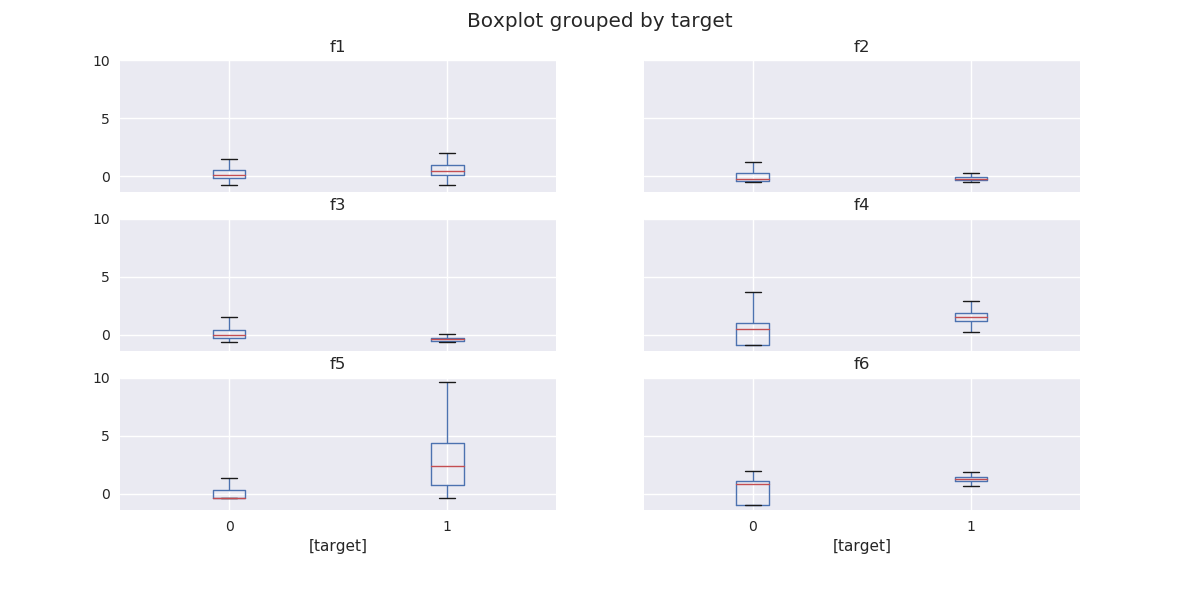
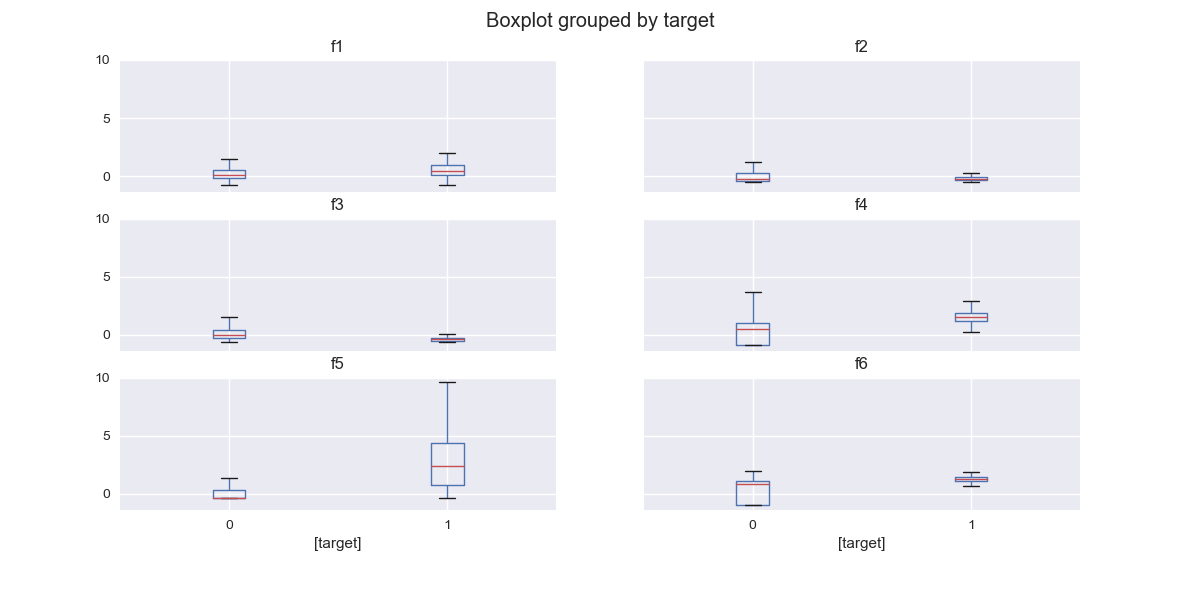
Changed plot palette

diff --git a/Util.py b/Util.py
@@ -5,8 +5,8 @@ import warnings # current version of seaborn generates a bunch of warnings that 
 warnings.filterwarnings("ignore")
 import seaborn as sns
 import matplotlib.pyplot as plt
-sns.set(color_codes=True)
-
+import matplotlib.style
+import matplotlib as mpl
 
 
 def extract_final_losses(history):
@@ -38,7 +38,9 @@ def plot_training_error_curves(history, arch_idx = None):
 	train_loss = history.history['loss']
 	val_loss = history.history['val_loss']
 
+	mpl.style.use('default')
 	fig, ax = plt.subplots()
+	ax.grid(False)
 	ax.plot(train_loss, label = 'Train')
 	ax.plot(val_loss, label = 'Validation')
 	ax.set(title = 'Training and Validation Error Curves', xlabel = 'Epochs', ylabel = 'Loss (MSE)')
@@ -65,7 +67,9 @@ def plot_roc_curve(y_test, y_pred, arch_idx = None):
 	print("Ploting ROC curve...")
 	fpr_net, tpr_net, _ = roc_curve(y_test, y_pred)
 
+	mpl.style.use('default')
 	fig, ax = plt.subplots()
+	ax.grid(False)
 	ax.plot([0, 1], [0, 1], 'k--')
 	ax.plot(fpr_net, tpr_net, label='net1')
 	ax.set(title = 'ROC Curve', xlabel = 'False positive rate', ylabel = 'True positive rate')
@@ -80,11 +84,13 @@ def plot_roc_curve(y_test, y_pred, arch_idx = None):
 	fig.savefig(file)
 
 def plot_scatter_matrix(dset, hue):
+	sns.set(color_codes=True)
 	g = sns.pairplot(dset, hue=hue, vars=["f1", "f2", "f3", "f4", "f5", "f6"], markers=["o", "x"])
 	g.fig.get_children()[-1].set_bbox_to_anchor((1.1, 0.5, 0, 0))
 	g.savefig("./results/dset_scat_matrix.png")
 
 def plot_boxPlot(dset):
+	sns.set(color_codes=True)
 	plt.figure()
 	axes = dset.boxplot(by='target', figsize=(12, 6), return_type='axes')
 	for ax in axes:
